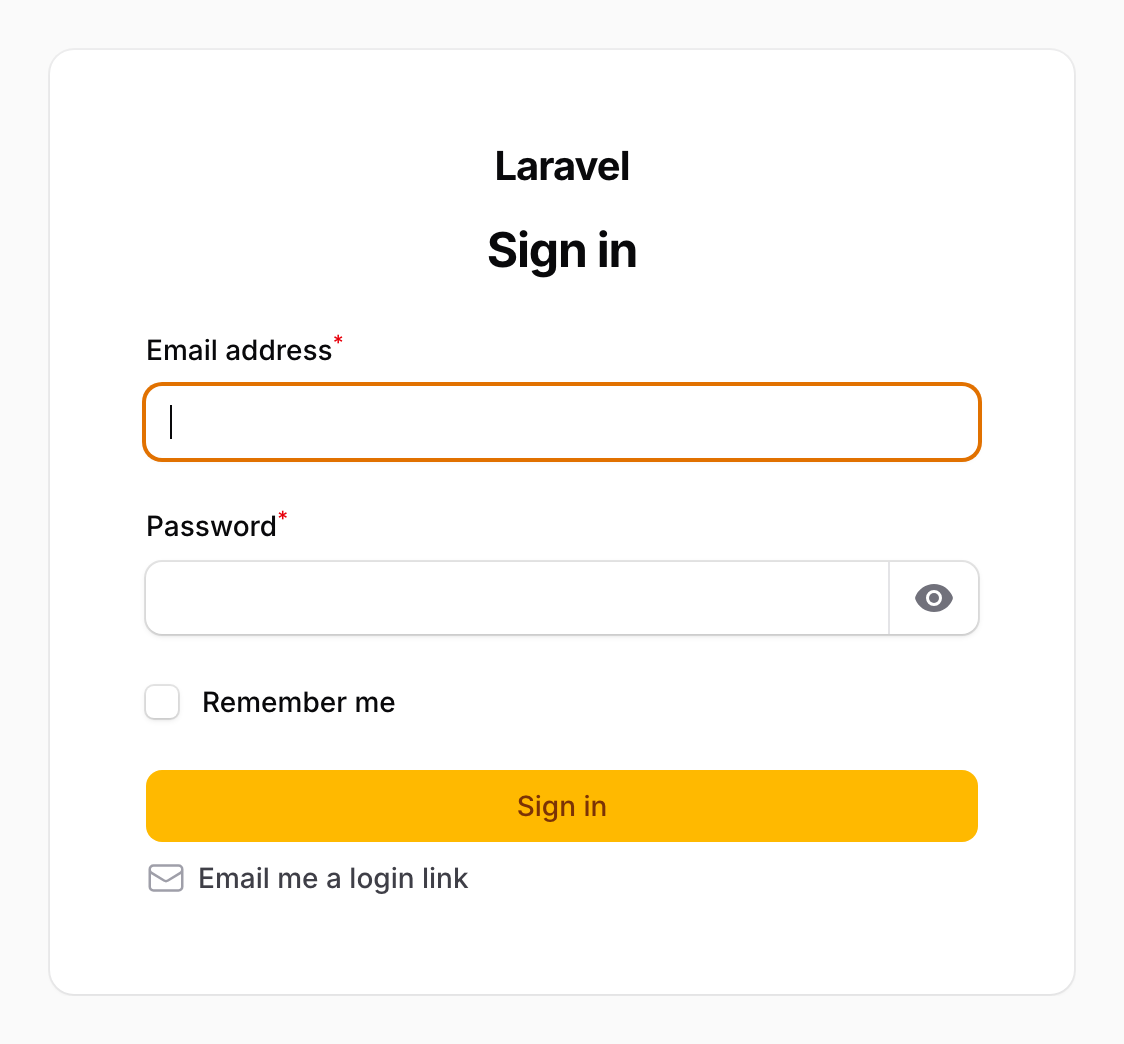
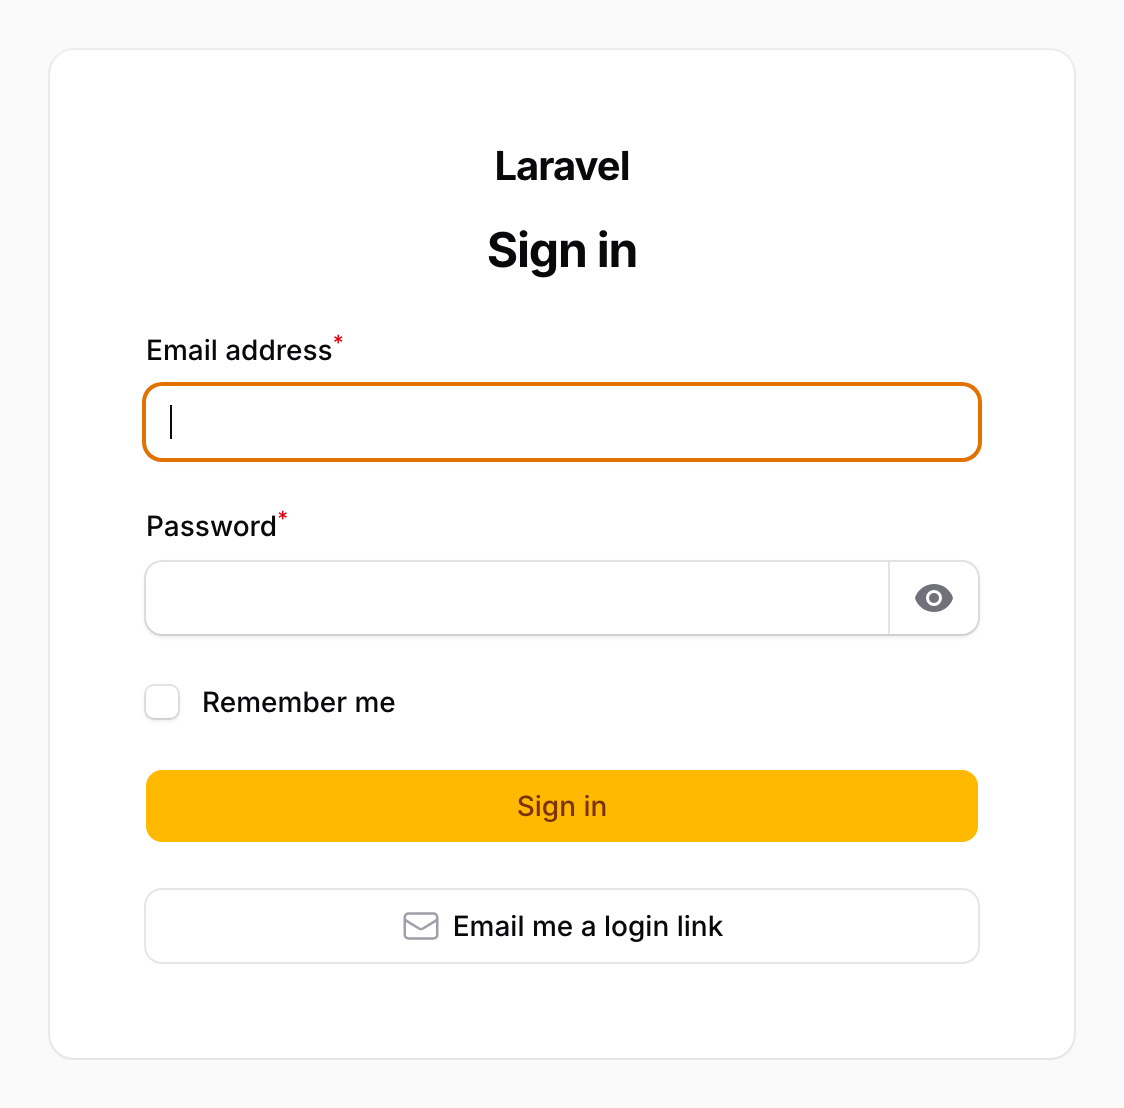
Restyle both action placements
BelowForm now renders a full-width uncoloured button matching the "Sign in"
button's shape, stacked beneath it as a second footer actions row — the
previous belowContent() wrapper would not stretch to full width.
EmailFieldHint now shows the label next to the envelope icon instead of
being icon-only.

Screenshots re-taken from a real Laravel 13 + Filament 5 app.

Claude-Session: https://claude.ai/code/session_01AK34Dff7XQDZs3QbXAMRek

diff --git a/src/Concerns/HasMagicLinkAction.php b/src/Concerns/HasMagicLinkAction.php
@@ -34,9 +34,12 @@ trait HasMagicLinkAction
                 $this->sendMagicLink();
             });
 
+        // Below the form it mirrors the "Sign in" button — same shape and size, but
+        // uncoloured, so it reads as the secondary way in. On the email field it is a
+        // labelled link, which fits the hint row.
         return $plugin->getPosition() === MagicLinkPosition::EmailFieldHint
-            ? $action->iconButton()
-            : $action->link();
+            ? $action->link()
+            : $action->button();
     }
 
     protected function sendMagicLink(): void
@@ -109,15 +112,17 @@ trait HasMagicLinkAction
             return $component;
         }
 
+        // A second actions row in the footer, so the button stacks under the first one
+        // and inherits the same width instead of sharing its row.
         return $component->footer([
             Actions::make($this->getFormActions())
                 ->alignment($this->getFormActionsAlignment())
                 ->fullWidth($this->hasFullWidthFormActions())
-                ->key('form-actions')
-                ->belowContent(
-                    Actions::make([$this->magicLinkAction()])
-                        ->key('magic-login-actions'),
-                ),
+                ->key('form-actions'),
+            Actions::make([$this->magicLinkAction()])
+                ->alignment($this->getFormActionsAlignment())
+                ->fullWidth($this->hasFullWidthFormActions())
+                ->key('magic-login-actions'),
         ]);
     }
 

diff --git a/README.md b/README.md
@@ -12,8 +12,8 @@ The action appears in one of two places, chosen per panel:
 
 | `MagicLinkPosition::BelowForm` (default) | `MagicLinkPosition::EmailFieldHint` |
 |---|---|
-| <img src="art/below-form.png" alt="Filament login form with an 'Email me a login link' link under the Sign in button" width="420"> | <img src="art/email-field-hint.png" alt="Filament login form with an envelope icon button on the email field" width="420"> |
-| A link under the "Sign in" button. | An envelope icon button on the email field. |
+| <img src="art/below-form.png" alt="Filament login form with an 'Email me a login link' button under the Sign in button" width="420"> | <img src="art/email-field-hint.png" alt="Filament login form with an 'Email me a login link' hint action on the email field" width="420"> |
+| A full-width button under the "Sign in" button — same shape, no colour. | A labelled link on the email field's hint row. |
 
 Nothing about the password form changes: password login, password reset and registration keep
 working exactly as before.

diff --git a/CHANGELOG.md b/CHANGELOG.md
@@ -12,7 +12,8 @@ and this project adheres to [Semantic Versioning](https://semver.org/spec/v2.0.0
 ### Added
 
 - "Email me a login link" action for Filament 5 panels, alongside the password form.
-- Two placements: below the form (default) or as an email field hint action.
+- Two placements: a full-width uncoloured button below the form (default), or a
+  labelled hint action on the email field.
 - Single-use, hashed, time-limited tokens bound to a panel and guard.
 - `database` (default) and `cache` storage drivers behind a `TokenRepository` contract.
 - Per-panel plugin configuration with global config fallbacks.
